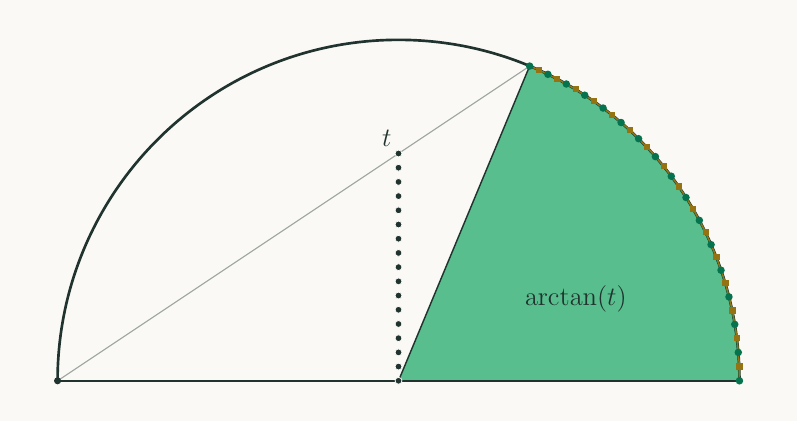
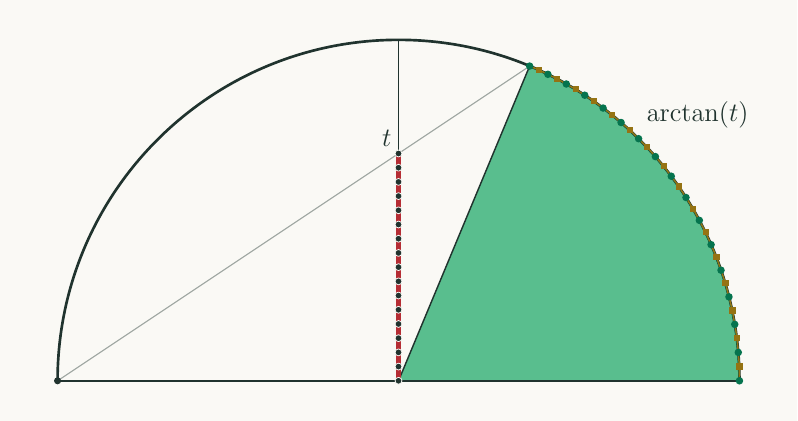
Move the arctangent label outside the circle and highlight the input radius

Changed region(s): [[0.4812, 0.3705, 0.5113, 0.8955], [0.812, 0.247, 0.9323, 0.3088], [0.6617, 0.6793, 0.782, 0.7411]]

diff --git a/scripts/generate_tikz_animations.py b/scripts/generate_tikz_animations.py
@@ -426,14 +426,18 @@ def circle_frame(cells: int, phase: str, progress: float, *, arctan: bool = Fals
     out += [dot(*point, "lowerbound", 1.7) for point in (plotted if reached_arc else old_arc)]
     for x, y in (outer if trace == 1 else old_outer):
         out.append(rf"\fill[upperbound] ({q(x-1.4)},{q(y-1.4)}) rectangle ({q(x+1.4)},{q(y+1.4)});")
+    if arctan:
+        out.append(r"\definecolor{inputsegment}{HTML}{B52D34}")
+        stroke([origin, screen((0, 1))], "semicircle,line width=.65pt")
+        stroke([origin, screen((0, end))], "inputsegment,line width=2.4pt")
     for value in mesh:
         x, y = screen((0, value))
         out.append(rf"\filldraw[fill=semicircle,draw=paper,line width=.35pt] ({q(x)},{q(y)}) circle[radius=1.55pt];")
     if arctan:
         x, y = screen((0, end))
         out.append(rf"\node[anchor=south east,inner sep=1pt,text=semicircle,font=\large] at ({q(x-2)},{q(y+2)}) {{\(t\)}};")
-        x, y = screen((.52, .24))
-        out.append(rf"\node[inner sep=1pt,text=semicircle,font=\large] at ({q(x)},{q(y)}) {{\(\arctan(t)\)}};")
+        x, y = screen((.72, .78))
+        out.append(rf"\node[anchor=west,inner sep=1pt,text=semicircle,font=\large] at ({q(x)},{q(y)}) {{\(\arctan(t)\)}};")
     else:
         measured = previous if previous and not settled else samples
         lower, upper = decimal_bounds(*circle_area_bounds(measured), minimum_places=1)

diff --git a/blueprint/src/assets/tikz/arctan-sector/frame-4.tex b/blueprint/src/assets/tikz/arctan-sector/frame-4.tex
@@ -91,6 +91,9 @@
 \fill[upperbound] (258.6475,148.2517) rectangle (261.4475,151.0517);
 \fill[upperbound] (250.3099,152.9664) rectangle (253.1099,155.7664);
 \fill[upperbound] (242.0118,157.0118) rectangle (244.8118,159.8118);
+\definecolor{inputsegment}{HTML}{B52D34}
+\draw[semicircle,line width=.65pt] (180,18) -- (180,172);
+\draw[inputsegment,line width=2.4pt] (180,18) -- (180,120.6667);
 \filldraw[fill=semicircle,draw=paper,line width=.35pt] (180,18) circle[radius=1.55pt];
 \filldraw[fill=semicircle,draw=paper,line width=.35pt] (180,24.4167) circle[radius=1.55pt];
 \filldraw[fill=semicircle,draw=paper,line width=.35pt] (180,30.8333) circle[radius=1.55pt];
@@ -109,6 +112,6 @@
 \filldraw[fill=semicircle,draw=paper,line width=.35pt] (180,114.25) circle[radius=1.55pt];
 \filldraw[fill=semicircle,draw=paper,line width=.35pt] (180,120.6667) circle[radius=1.55pt];
 \node[anchor=south east,inner sep=1pt,text=semicircle,font=\large] at (178,122.6667) {\(t\)};
-\node[inner sep=1pt,text=semicircle,font=\large] at (260.08,54.96) {\(\arctan(t)\)};
+\node[anchor=west,inner sep=1pt,text=semicircle,font=\large] at (290.88,138.12) {\(\arctan(t)\)};
 \end{tikzpicture}
 \end{document}

diff --git a/blueprint/src/assets/tikz/arctan-sector/frame-3.tex b/blueprint/src/assets/tikz/arctan-sector/frame-3.tex
@@ -75,6 +75,9 @@
 \fill[upperbound] (279.4966,133.4276) rectangle (282.2966,136.2276);
 \fill[upperbound] (263.0516,145.7613) rectangle (265.8516,148.5613);
 \fill[upperbound] (246.36,155.2) rectangle (249.16,158);
+\definecolor{inputsegment}{HTML}{B52D34}
+\draw[semicircle,line width=.65pt] (180,18) -- (180,172);
+\draw[inputsegment,line width=2.4pt] (180,18) -- (180,120.6667);
 \filldraw[fill=semicircle,draw=paper,line width=.35pt] (180,18) circle[radius=1.55pt];
 \filldraw[fill=semicircle,draw=paper,line width=.35pt] (180,30.8333) circle[radius=1.55pt];
 \filldraw[fill=semicircle,draw=paper,line width=.35pt] (180,43.6667) circle[radius=1.55pt];
@@ -85,6 +88,6 @@
 \filldraw[fill=semicircle,draw=paper,line width=.35pt] (180,107.8333) circle[radius=1.55pt];
 \filldraw[fill=semicircle,draw=paper,line width=.35pt] (180,120.6667) circle[radius=1.55pt];
 \node[anchor=south east,inner sep=1pt,text=semicircle,font=\large] at (178,122.6667) {\(t\)};
-\node[inner sep=1pt,text=semicircle,font=\large] at (260.08,54.96) {\(\arctan(t)\)};
+\node[anchor=west,inner sep=1pt,text=semicircle,font=\large] at (290.88,138.12) {\(\arctan(t)\)};
 \end{tikzpicture}
 \end{document}

diff --git a/blueprint/src/assets/tikz/arctan-sector/frame-2.tex b/blueprint/src/assets/tikz/arctan-sector/frame-2.tex
@@ -67,12 +67,15 @@
 \fill[upperbound] (316.3895,89.5474) rectangle (319.1895,92.3474);
 \fill[upperbound] (288.6,126.6) rectangle (291.4,129.4);
 \fill[upperbound] (255.6,151.35) rectangle (258.4,154.15);
+\definecolor{inputsegment}{HTML}{B52D34}
+\draw[semicircle,line width=.65pt] (180,18) -- (180,172);
+\draw[inputsegment,line width=2.4pt] (180,18) -- (180,120.6667);
 \filldraw[fill=semicircle,draw=paper,line width=.35pt] (180,18) circle[radius=1.55pt];
 \filldraw[fill=semicircle,draw=paper,line width=.35pt] (180,43.6667) circle[radius=1.55pt];
 \filldraw[fill=semicircle,draw=paper,line width=.35pt] (180,69.3333) circle[radius=1.55pt];
 \filldraw[fill=semicircle,draw=paper,line width=.35pt] (180,95) circle[radius=1.55pt];
 \filldraw[fill=semicircle,draw=paper,line width=.35pt] (180,120.6667) circle[radius=1.55pt];
 \node[anchor=south east,inner sep=1pt,text=semicircle,font=\large] at (178,122.6667) {\(t\)};
-\node[inner sep=1pt,text=semicircle,font=\large] at (260.08,54.96) {\(\arctan(t)\)};
+\node[anchor=west,inner sep=1pt,text=semicircle,font=\large] at (290.88,138.12) {\(\arctan(t)\)};
 \end{tikzpicture}
 \end{document}

diff --git a/blueprint/src/assets/tikz/arctan-sector/frame-1.tex b/blueprint/src/assets/tikz/arctan-sector/frame-1.tex
@@ -63,10 +63,13 @@
 \fill[lowerbound] (239.2308,160.1538) circle[radius=1.7pt];
 \fill[upperbound] (332.6,67.9333) rectangle (335.4,70.7333);
 \fill[upperbound] (276.6,142.6) rectangle (279.4,145.4);
+\definecolor{inputsegment}{HTML}{B52D34}
+\draw[semicircle,line width=.65pt] (180,18) -- (180,172);
+\draw[inputsegment,line width=2.4pt] (180,18) -- (180,120.6667);
 \filldraw[fill=semicircle,draw=paper,line width=.35pt] (180,18) circle[radius=1.55pt];
 \filldraw[fill=semicircle,draw=paper,line width=.35pt] (180,69.3333) circle[radius=1.55pt];
 \filldraw[fill=semicircle,draw=paper,line width=.35pt] (180,120.6667) circle[radius=1.55pt];
 \node[anchor=south east,inner sep=1pt,text=semicircle,font=\large] at (178,122.6667) {\(t\)};
-\node[inner sep=1pt,text=semicircle,font=\large] at (260.08,54.96) {\(\arctan(t)\)};
+\node[anchor=west,inner sep=1pt,text=semicircle,font=\large] at (290.88,138.12) {\(\arctan(t)\)};
 \end{tikzpicture}
 \end{document}

diff --git a/scripts/apply_chapter_gifs.py b/scripts/apply_chapter_gifs.py
@@ -118,7 +118,8 @@ def update_arctan_figure(site):
     edition_file.write_text(json.dumps(edition, indent=2, ensure_ascii=False)+'\n')
 
     page = site/'cosine-primitive.html'
-    alt = ('The mark t on the vertical radius determines the shaded arctangent sector. '
+    alt = ('A thick red segment runs from the center to the mark t on the vertical radius. '
+           'The corresponding shaded sector is labeled arctan(t) outside the circle. '
            'New rays project the subdivisions onto the arc as green chords and yellow tangents refine its area bounds.')
     caption = (r'Project the equally spaced marks up to \(t\) onto the arc from the left end of the diameter. '
                r'The shaded sector has area \(A(t)=\arctan(t)\).')
